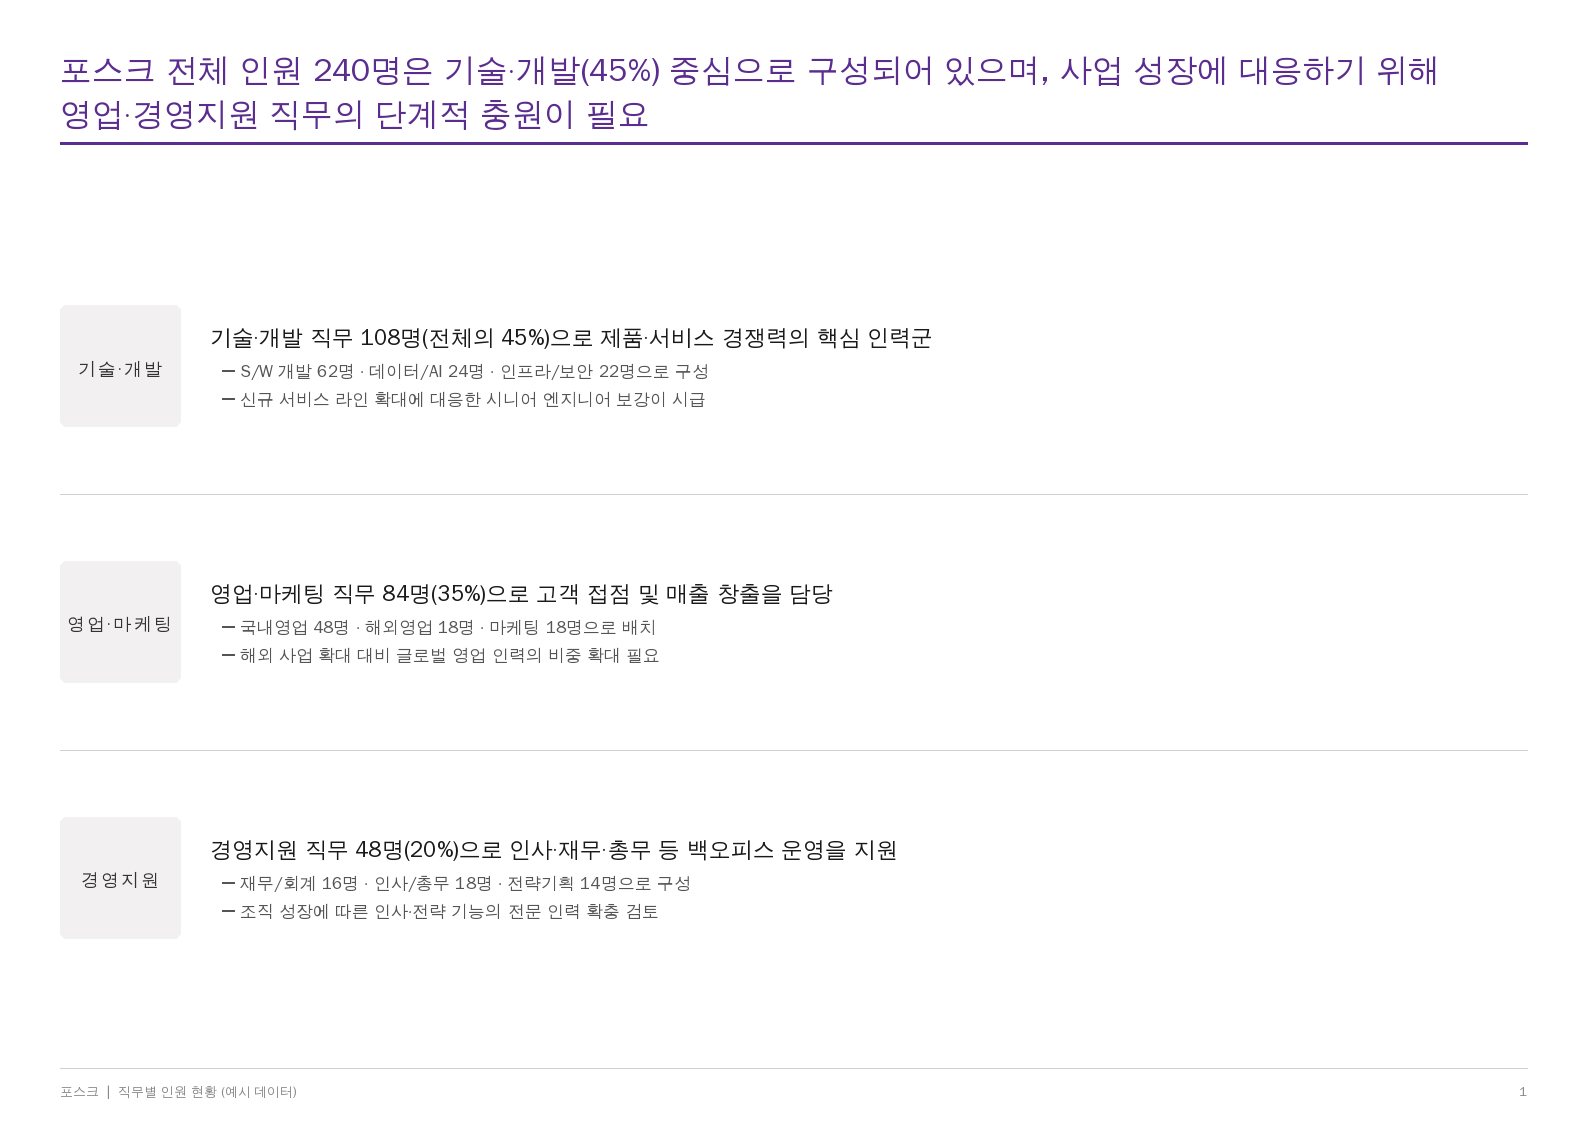
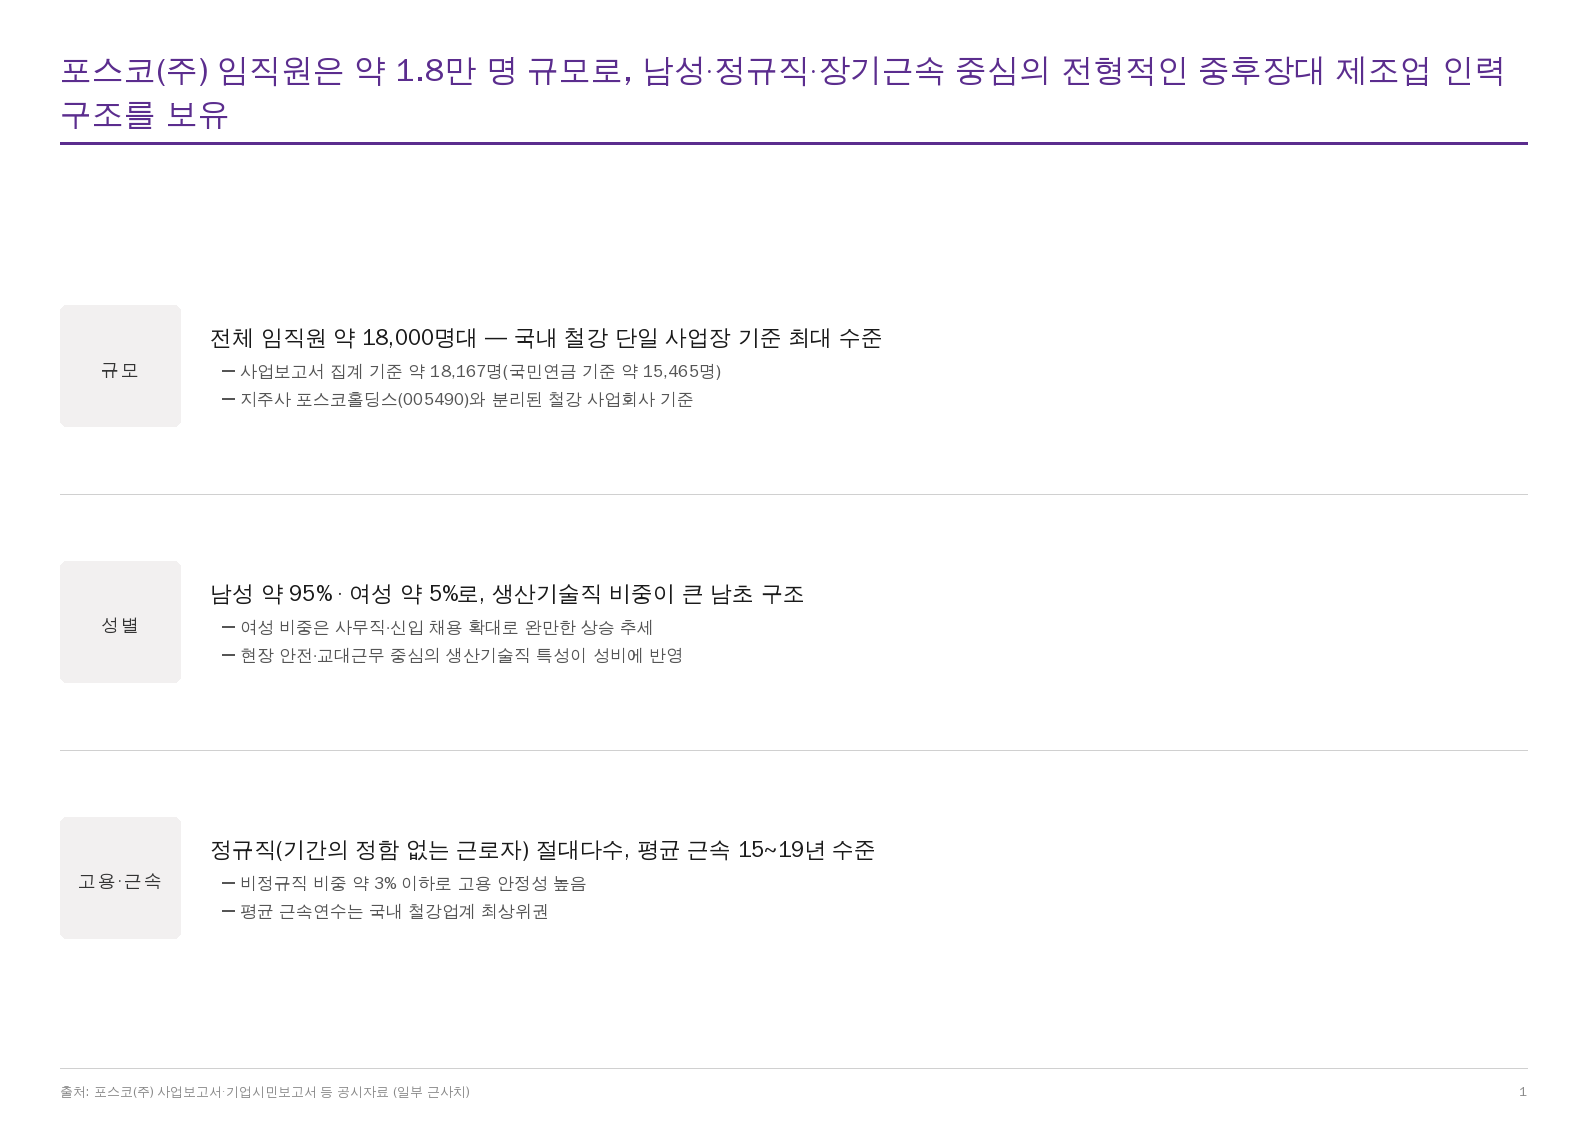
Rebuild POSCO headcount slide with public-disclosure figures
Replace earlier illustrative placeholders with real figures sourced from
POSCO Co., Ltd. public disclosures (DART business report, ESG report,
recruiting aggregators): ~18k headcount, ~95/5 male/female split,
mostly permanent employment, 15-19yr avg tenure.

Reframed boxes around dimensions that are actually disclosed
(size / gender / employment & tenure), since a pure job-function
(영업/기술/경영지원) split is not published in the business report.
Figures are approximate and noted as such on the slide footer.

Claude-Session: https://claude.ai/code/session_013Gm77f5k1xUoLmZ9JcNyGb

diff --git a/posk_headcount_slide.py b/posk_headcount_slide.py
@@ -1,12 +1,19 @@
 #!/usr/bin/env python3
 """
-포스크 직무별 인원 현황 슬라이드 생성기
-=======================================
+포스코(주) 인력 현황 슬라이드 생성기
+=====================================
 Kearney 스타일의 컨설팅 슬라이드(slide_generator.render_slide)를 재사용하여
-'포스크 직무별 인원 현황' 한 장(A4 Landscape)을 PNG로 생성합니다.
+'포스코(주) 인력 현황' 한 장(A4 Landscape)을 PNG로 생성합니다.
 
-주의: 아래 인원 수치는 실제 데이터가 아닌 '예시(illustrative)' 값입니다.
-      실제 인원 현황 숫자로 CONTENT 딕셔너리를 교체한 뒤 다시 실행하세요.
+데이터 출처 / 한계
+------------------
+- 수치는 포스코(주) 사업보고서(DART), 기업시민(ESG)보고서, 채용정보 집계
+  등 '공개 자료'를 기반으로 한 근사치입니다(집계 기준·시점에 따라 차이).
+- DART 사업보고서의 「직원의 현황」은 '사업부문별 / 성별 / 고용형태별'로만
+  공시되며, '영업·기술·경영지원' 같은 순수 직무별 인원은 공시되지 않습니다.
+  직무에 가장 근접한 공개 자료는 ESG 보고서의 '직군(사무직/생산기술직)' 구분입니다.
+- 정확한 최신 표가 필요하면 DART(dart.fss.or.kr)의 포스코(주) 사업보고서
+  「직원의 현황」 표를 그대로 인용하여 아래 CONTENT를 교체하세요.
 
 Usage:
     python posk_headcount_slide.py            # posk_headcount_slide.png 생성
@@ -20,45 +27,44 @@ from slide_generator import render_slide, DEFAULT_PARAMS
 
 
 # ---------------------------------------------------------------------------
-# 슬라이드 내용 — 포스크 직무별 인원 현황 (예시 데이터)
-# 전체 240명 = 영업·마케팅 84명(35%) + 기술·개발 108명(45%) + 경영지원 48명(20%)
+# 슬라이드 내용 — 포스코(주) 인력 현황 (공시 기반 근사치)
 # ---------------------------------------------------------------------------
 CONTENT = {
     "headline": (
-        "포스크 전체 인원 240명은 기술·개발(45%) 중심으로 구성되어 있으며, "
-        "사업 성장에 대응하기 위해 영업·경영지원 직무의 단계적 충원이 필요"
+        "포스코(주) 임직원은 약 1.8만 명 규모로, 남성·정규직·장기근속 중심의 "
+        "전형적인 중후장대 제조업 인력 구조를 보유"
     ),
 
-    "box1_label": "기술·개발",
-    "box1_main": "기술·개발 직무 108명(전체의 45%)으로 제품·서비스 경쟁력의 핵심 인력군",
+    "box1_label": "규모",
+    "box1_main": "전체 임직원 약 18,000명대 — 국내 철강 단일 사업장 기준 최대 수준",
     "box1_bullets": [
-        "S/W 개발 62명 · 데이터/AI 24명 · 인프라/보안 22명으로 구성",
-        "신규 서비스 라인 확대에 대응한 시니어 엔지니어 보강이 시급",
+        "사업보고서 집계 기준 약 18,167명(국민연금 기준 약 15,465명)",
+        "지주사 포스코홀딩스(005490)와 분리된 철강 사업회사 기준",
     ],
 
-    "box2_label": "영업·마케팅",
-    "box2_main": "영업·마케팅 직무 84명(35%)으로 고객 접점 및 매출 창출을 담당",
+    "box2_label": "성별",
+    "box2_main": "남성 약 95% · 여성 약 5%로, 생산기술직 비중이 큰 남초 구조",
     "box2_bullets": [
-        "국내영업 48명 · 해외영업 18명 · 마케팅 18명으로 배치",
-        "해외 사업 확대 대비 글로벌 영업 인력의 비중 확대 필요",
+        "여성 비중은 사무직·신입 채용 확대로 완만한 상승 추세",
+        "현장 안전·교대근무 중심의 생산기술직 특성이 성비에 반영",
     ],
 
-    "box3_label": "경영지원",
-    "box3_main": "경영지원 직무 48명(20%)으로 인사·재무·총무 등 백오피스 운영을 지원",
+    "box3_label": "고용·근속",
+    "box3_main": "정규직(기간의 정함 없는 근로자) 절대다수, 평균 근속 15~19년 수준",
     "box3_bullets": [
-        "재무/회계 16명 · 인사/총무 18명 · 전략기획 14명으로 구성",
-        "조직 성장에 따른 인사·전략 기능의 전문 인력 확충 검토",
+        "비정규직 비중 약 3% 이하로 고용 안정성 높음",
+        "평균 근속연수는 국내 철강업계 최상위권",
     ],
 
-    "footer_left": "포스크  |  직무별 인원 현황 (예시 데이터)",
+    "footer_left": "출처: 포스코(주) 사업보고서·기업시민보고서 등 공시자료 (일부 근사치) ",
     "page_number": "1",
 }
 
 
 def main():
     out_path = sys.argv[1] if len(sys.argv) > 1 else "posk_headcount_slide.png"
-    out_path = os.path.join(os.path.dirname(__file__) or ".", out_path) \
-        if not os.path.isabs(out_path) else out_path
+    if not os.path.isabs(out_path):
+        out_path = os.path.join(os.path.dirname(__file__) or ".", out_path)
 
     img = render_slide(CONTENT, DEFAULT_PARAMS)
     img.save(out_path, quality=95)
